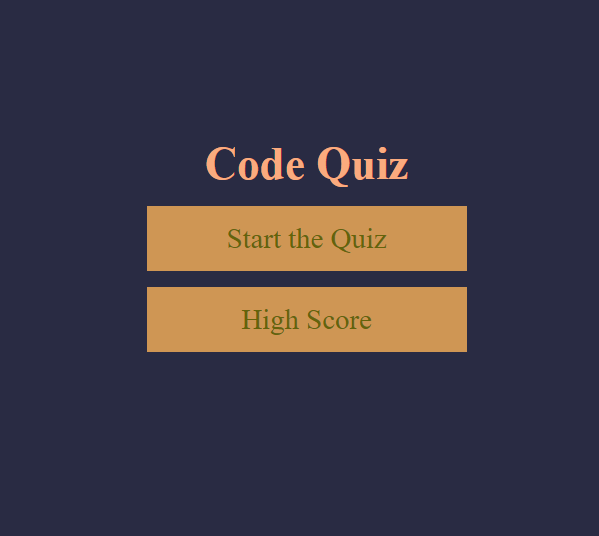
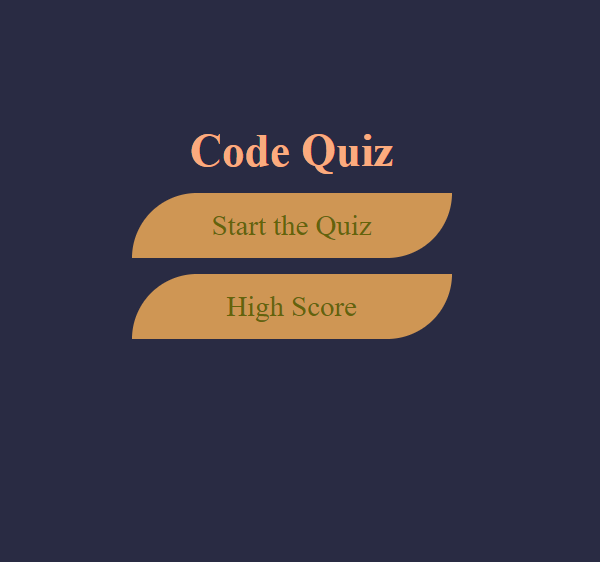
Added final screen to app.

Changed region(s): [[0.2104, 0.2388, 0.7813, 0.6567]]

diff --git a/style.css b/style.css
@@ -58,8 +58,9 @@ h2 {
   margin-bottom: 16px;
   font-weight: 700;
 }
+
 .btn {
-  font-size: 1.8rem;
+  font-size: 22px;
   padding: 16px 0;
   width: 20rem;
   text-align: center;
@@ -74,8 +75,7 @@ h2 {
   cursor: pointer;
   color: skyblue;
   box-shadow: 0 0.4rem 1.4rem 0 rgba(86, 185, 235, 0.5);
-  transform: translateY(-0.16px);
-  transition: 150ms;
+  transform: translateY(-0.1rem);
 }
 
 .btn[disabled]:hover {
@@ -90,13 +90,14 @@ h2 {
 
 .justify-center {
   justify-content: center;
-  margin-left: 420px;
+  margin-left: 300px;
 }
 
 .text-center {
   text-align: center;
 }
 
+/* Styling for main.html screen */
 .choice-container {
   display: flex;
   margin-bottom: 8px;
@@ -132,7 +133,7 @@ h2 {
   display: flex;
   justify-content: space-between;
   width: 750px;
-  margin-top: 100px;
+  margin-top: 50px;
 }
 
 .hud-prefix {
@@ -143,4 +144,30 @@ h2 {
 
 .hud-main-text {
   text-align: center;
+}
+
+/* Styling for final screen's elements */
+form {
+  width: 100%;
+  display: flex;
+  flex-direction: column;
+  align-items: center;
+}
+
+input {
+  background-color: rgb(207, 150, 84);
+  border-radius: 75px 0;
+  text-align: center;
+  text-decoration: none;
+  width: 20rem;
+  align-items: center;
+  font-size: 22px;
+  padding: 16px 0;
+  margin-left: 5px;
+  margin-bottom: 16px;
+  color: #64630b;
+}
+
+form .text:hover {
+  box-shadow: 0 0.1rem 1.4rem 0 rgba(18, 165, 238, 0.5);
 }

diff --git a/final-screen.html b/final-screen.html
@@ -1,0 +1,43 @@
+<!DOCTYPE html>
+<html lang="en">
+  <head>
+    <meta charset="UTF-8" />
+    <meta name="viewport" content="width=device-width, initial-scale=1.0" />
+    <meta http-equiv="X-UA-Compatible" content="ie=edge" />
+    <!-- Title of the page -->
+    <title>Code Quiz | Final Screen</title>
+    <!-- Linking the css file (style.css) -->
+    <link rel="stylesheet" href="style.css" />
+  </head>
+  <body>
+      <!-- Wrapping all the elements within the container section -->
+    <div class="container">
+      <div id="end" class="flex-center flex-column">
+        <h1 id="finalScore">100</h1>
+        <!-- Form section with input field and couple buttons -->
+        <form>
+          <input
+            class="text"
+            type="text"
+            name="username"
+            id="username"
+            placeholder="username"
+          />
+          <button
+            type="submit"
+            class="btn"
+            id="saveScoreBtn"
+            onclick="saveHighScore(event)"
+            disabled
+          >
+            Save
+          </button>
+        </form>
+        <!-- a tags which will redirect the specifed screen to the user -->
+        <a class="btn" href="main.html">Play Again</a>
+        <a class="btn" href="index.html">Go Home</a>
+      </div>
+    </div>
+    <script src="score-screen.js"></script>
+  </body>
+</html>

diff --git a/main.html b/main.html
@@ -4,14 +4,15 @@
     <meta charset="UTF-8" />
     <meta http-equiv="X-UA-Compatible" content="IE=edge" />
     <meta name="viewport" content="width=device-width, initial-scale=1.0" />
-    <!-- Title of the -->
+    <!-- Title of the page-->
     <title>Code Quiz | Quiz Page</title>
+    <!-- Linking the css file (style.css) -->
     <link rel="stylesheet" href="style.css" />
   </head>
   <body>
     <div class="container">
       <div id="game" class="justify-center flex-column">
-        <!-- Top section with number of question and score with static p tag -->
+        <!-- Top section with number of question and score with static <p> tag -->
         <div id="hud">
           <div id="hud-item">
             <p class="hud-prefix">Question</p>

diff --git a/index.html b/index.html
@@ -17,7 +17,7 @@
         <h1>Code Quiz</h1>
         <!-- Start and High Score buttons with no path -->
         <a class="btn" href="main.html">Start the Quiz</a>
-        <a class="btn" href="#">High Score</a>
+        <a class="btn" href="final-screen.html">High Score</a>
       </div>
     </div>
   </body>
